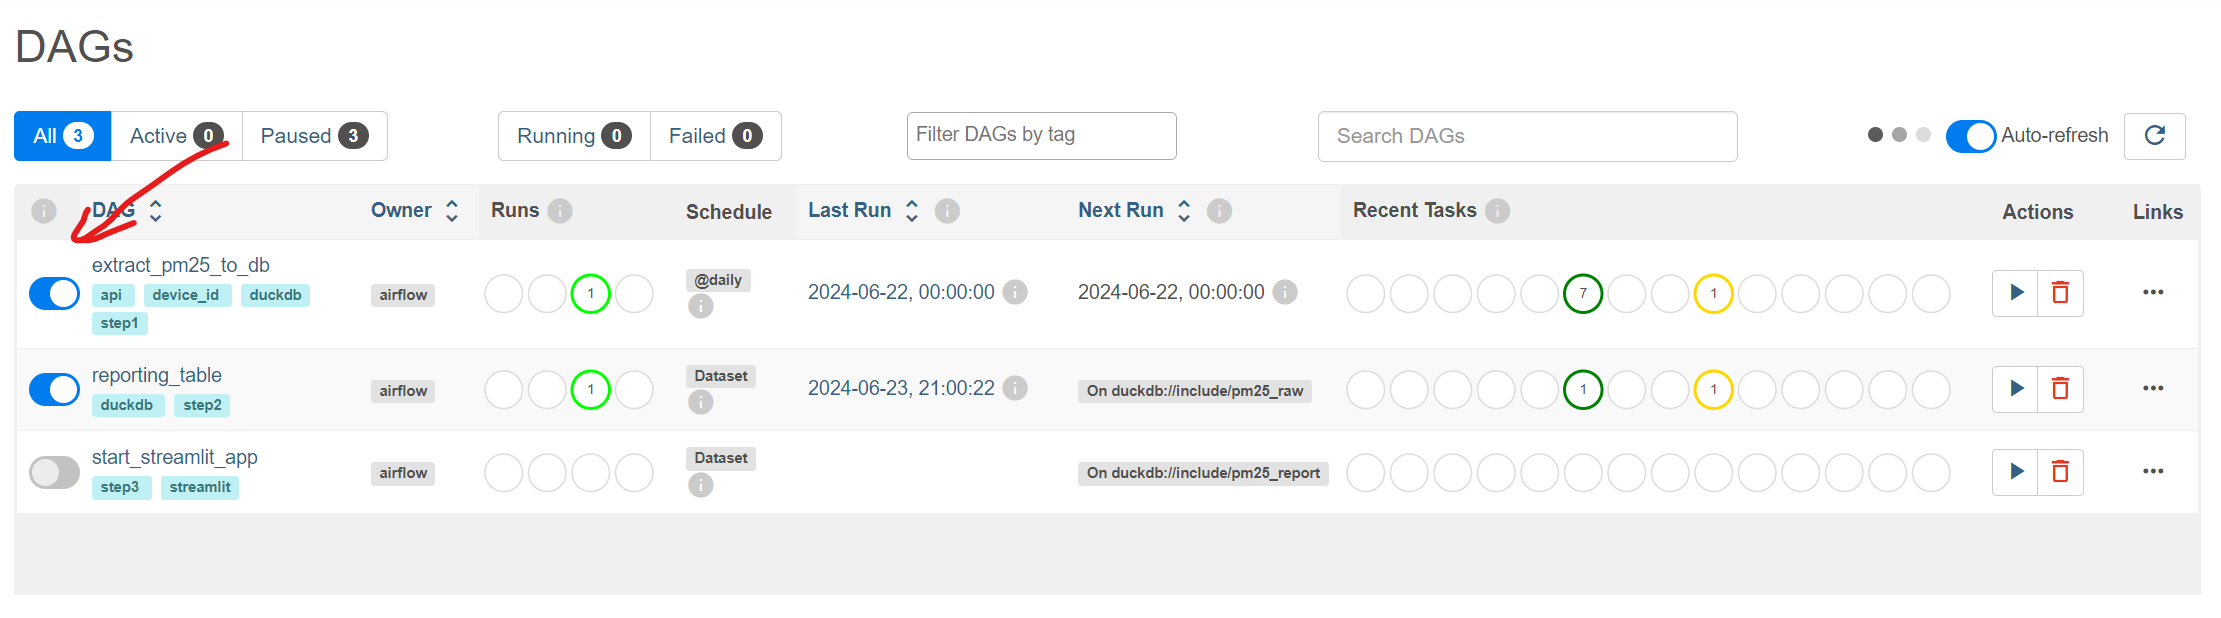
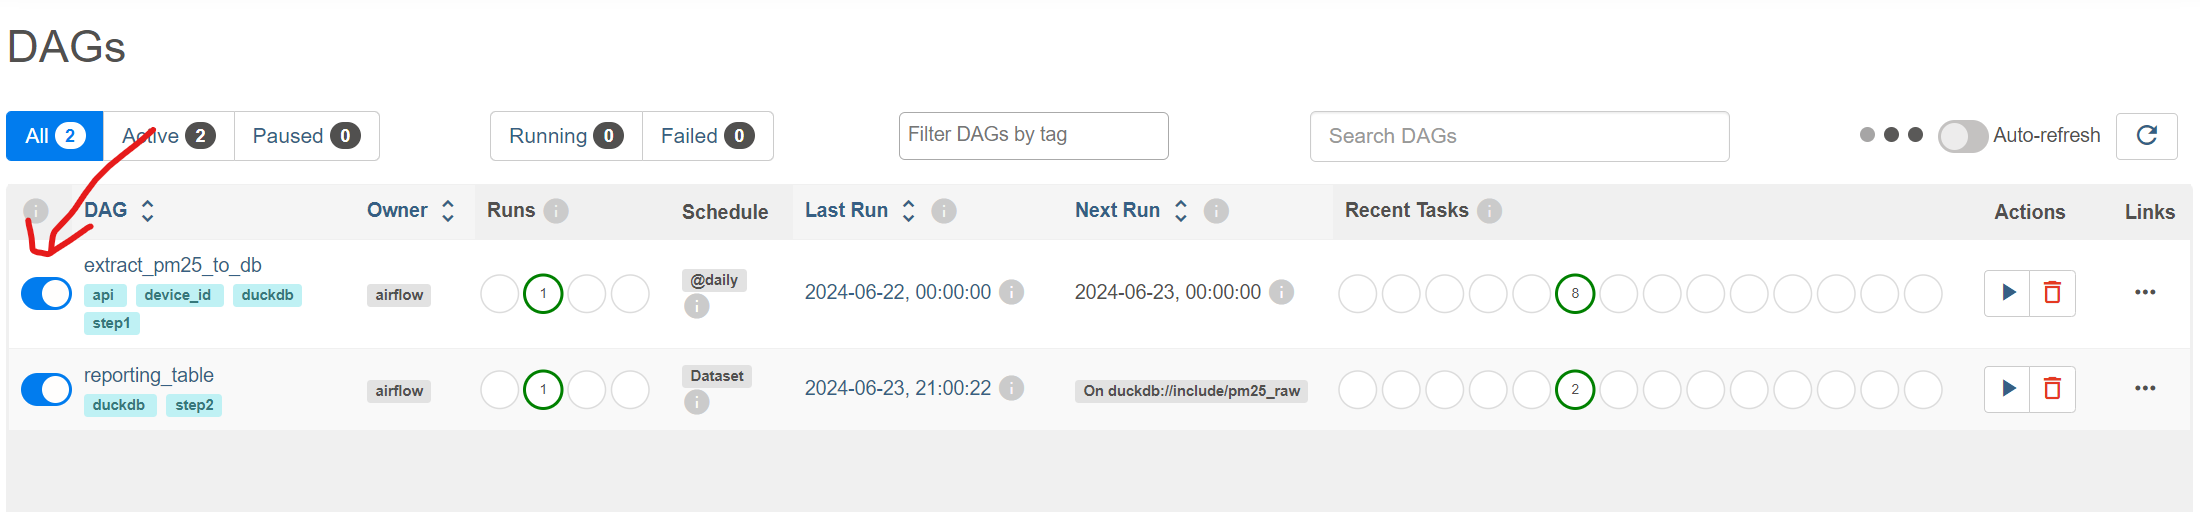
create a streamlit container to run

diff --git a/airflow/include/global_variables/airflow_conf_variables.py b/airflow/include/global_variables/airflow_conf_variables.py
@@ -2,7 +2,6 @@
 # PACKAGE IMPORTS #
 # --------------- #
 
-from airflow import Dataset
 from pendulum import duration
 
 # ----------------------- #

diff --git a/README.md b/README.md
@@ -164,7 +164,7 @@ winget install -e --id Astronomer.Astro
 
   
 ## Overview of this project
-There are 3 `dag`s in the whole process, connected by datasets
+There are 2 `dag`s for data processing and 1 report for data monitoring in the whole process
 <div align="center">
   <img src="src/dependency.png">
 </div>
@@ -173,7 +173,7 @@ There are 3 `dag`s in the whole process, connected by datasets
 
 Key points:
 1. **schedule: daily, run once at midnight** 
-2. **Filter out existing records when update, set (device_id, timestamp) is UNIQUE to avoid duplicates**
+2. **Filter out existing records when update and set (device_id, timestamp) is UNIQUE to avoid duplicates**
 3. **Monitor data quality without duplicate records and correct timestamp datatype**
 
 ![dag1](src/dag1.png)
@@ -186,11 +186,9 @@ Key points:
 3. **Transformation run in a pool to prevent parallel requests to duckdb** 
 ![dag2](src/dag2.png)
 
- **DAG 3** run_streamlit, dashboarding, visualise data
-        
+A streamlit container keeps monitoring database and visualising data        
 Key points:
-1. **schedule: triggered by dag 2, as long as dag 2 runs, update the report once**
-2. **data source is pm25_ducks.db, streamlit_app.py design the report**
+1. **data source is pm25_ducks.db, streamlit_app.py design the report**
 ![dag3](src/reports.png)
 
 ## Next step
